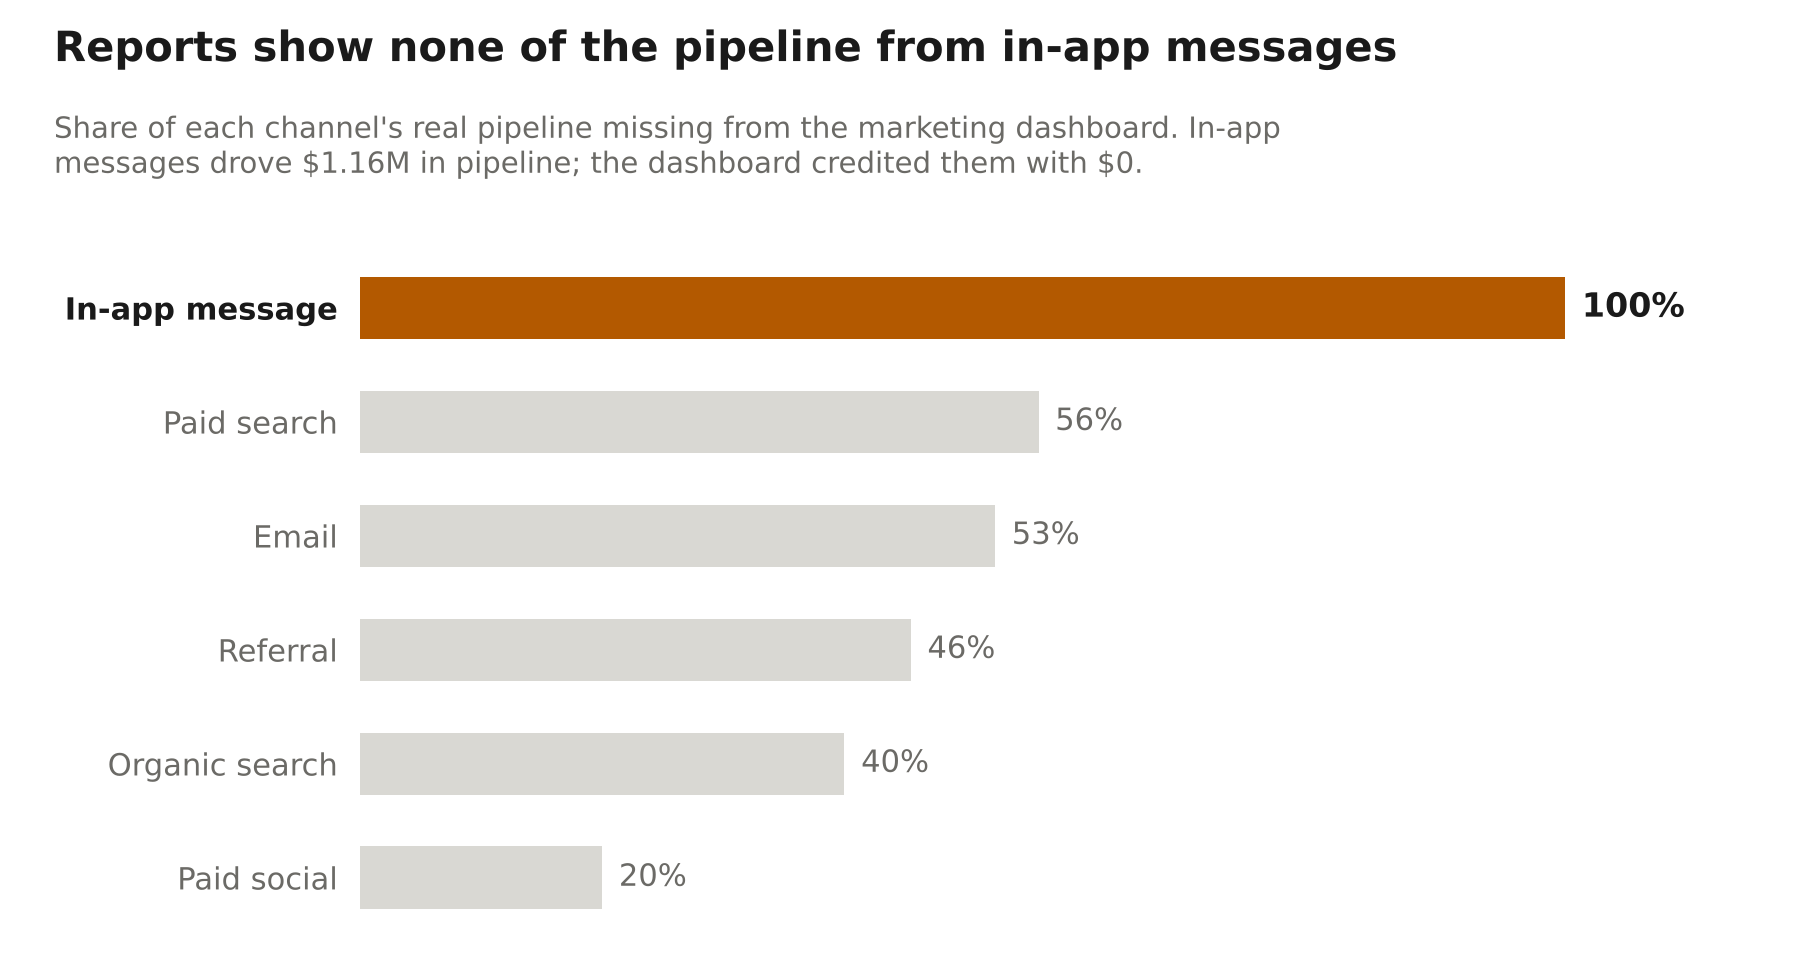
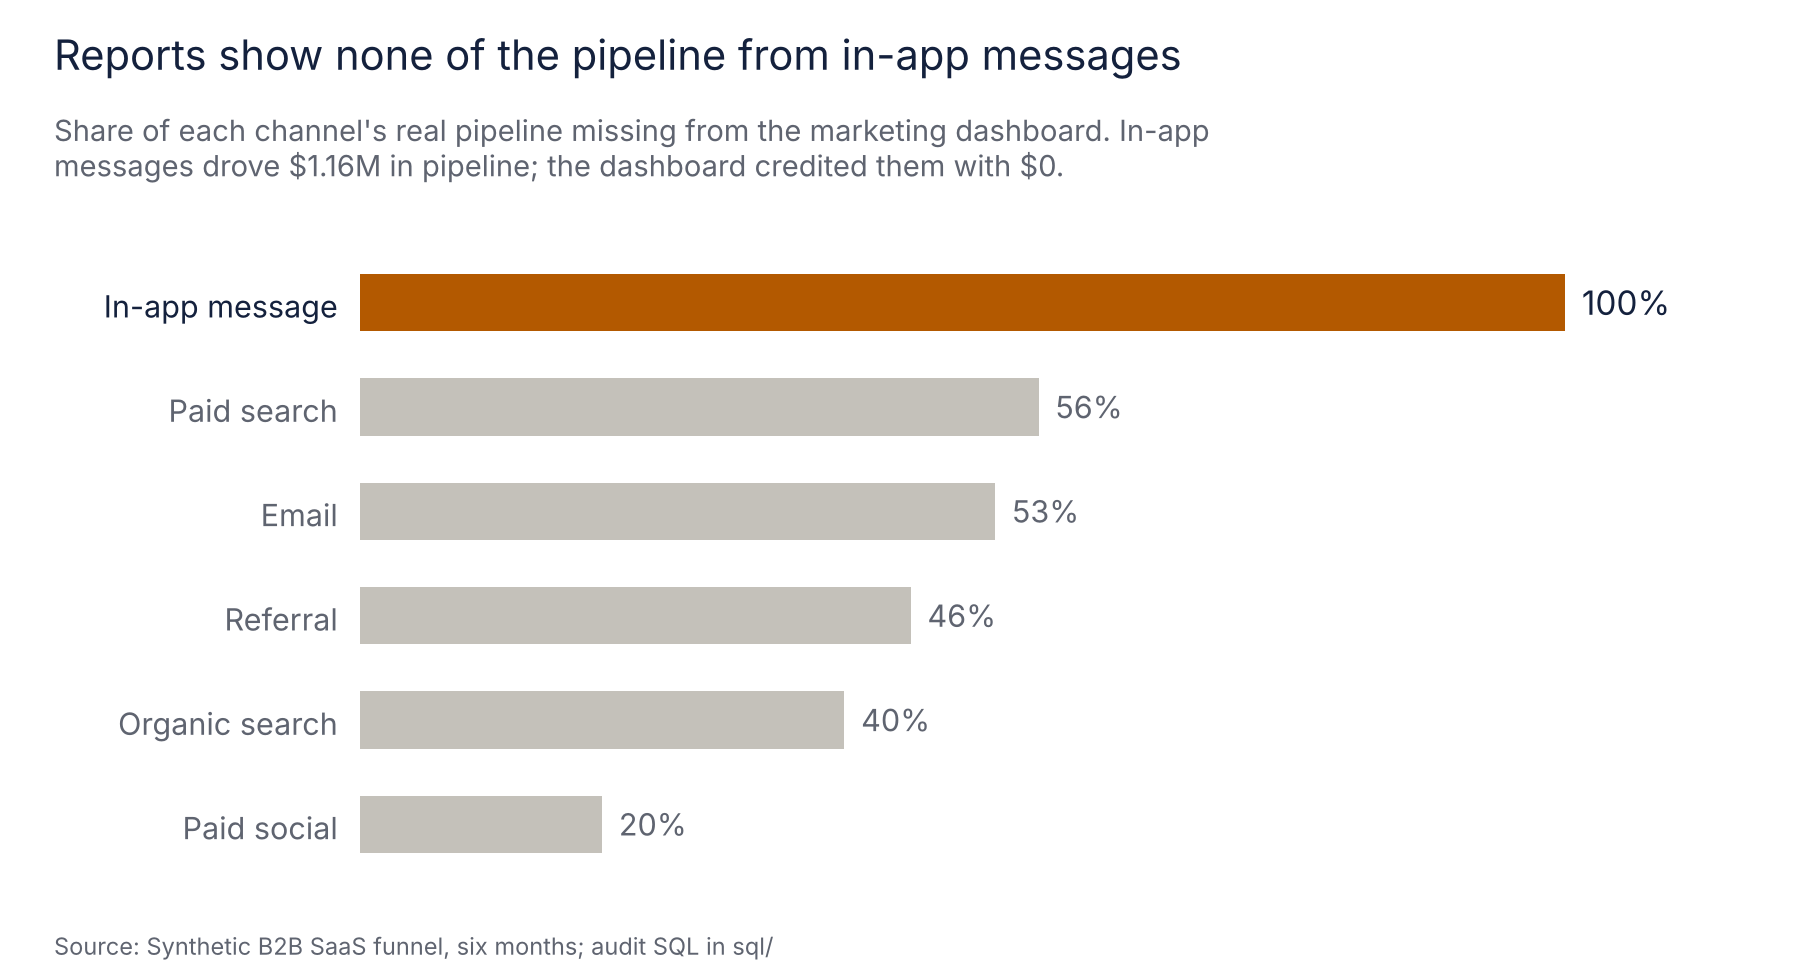
Add budget break-even view and value section; portfolio chart style

diff --git a/scripts/brand_style.py b/scripts/brand_style.py
@@ -1,0 +1,90 @@
+"""Shared chart style for Ekene Okafor's portfolio.
+
+One message per chart, stated in a sentence-case headline (regular weight, not bold or all caps),
+a short deck underneath, one highlight colour with grey for context, direct labels instead of legends,
+no gridlines, horizontal text only, bars from zero, and a source line.
+Colours are validated with the dataviz palette checks (lightness band, chroma, contrast, CVD).
+"""
+import matplotlib
+import matplotlib.pyplot as plt
+
+INK = "#14213d"        # navy: headlines, values, key labels
+MUTED = "#5f6470"      # deck, axis labels, source line (5.9:1 on white)
+CONTEXT = "#c4c1ba"    # grey for everything that is not the message (always direct-labelled)
+HAIRLINE = "#dedbd4"   # baselines and reference lines
+SURFACE = "#ffffff"
+BRAND_ACCENT = "#e0612e"  # signature orange
+
+# One highlight colour per project, so each repo is recognisable; never mixed in one chart
+PROJECT = {
+    "city-expansion-scorecard": "#2a78d6",
+    "campaign-uplift-targeting": "#e0612e",
+    "saas-cross-sell-playbook": "#14946a",
+    "business-review-agent": "#6250d6",
+    "marketplace-supply-simulation": "#2f8a2f",
+    "market-entry-investment-case": "#c94f86",
+    "funnel-attribution-audit": "#b35900",
+    "gtm-launch-playbook": "#d1495b",
+    "crm-data-hygiene-audit": "#00819e",
+}
+
+matplotlib.rcParams.update({
+    "font.family": "sans-serif",
+    "font.sans-serif": ["Inter", "Helvetica", "Arial", "DejaVu Sans"],
+    "axes.edgecolor": HAIRLINE,
+    "axes.labelcolor": MUTED,
+    "xtick.color": MUTED,
+    "ytick.color": MUTED,
+    "figure.facecolor": SURFACE,
+    "axes.facecolor": SURFACE,
+    "savefig.facecolor": SURFACE,
+})
+
+
+def figure(width=8.0, height=5.0):
+    """Default 8 x 5 (a 5:8 height to width ratio)."""
+    fig, ax = plt.subplots(figsize=(width, height), dpi=150)
+    return fig, ax
+
+
+def clean(ax, keep="x"):
+    """Remove chart junk. keep='x' keeps a bottom baseline (vertical bars, lines);
+    keep='y' keeps a left baseline (horizontal bars); keep=None removes both."""
+    for side in ["top", "right", "left", "bottom"]:
+        ax.spines[side].set_visible(False)
+    if keep == "x":
+        ax.spines["bottom"].set_visible(True)
+        ax.spines["bottom"].set_color(HAIRLINE)
+    if keep == "y":
+        ax.spines["left"].set_visible(True)
+        ax.spines["left"].set_color(HAIRLINE)
+    ax.grid(False)
+    ax.tick_params(length=0, labelsize=10.5, colors=MUTED)
+    return ax
+
+
+def headline(fig, title, deck=None):
+    """Takeaway headline in sentence case, regular weight, with an optional deck."""
+    fig.text(0.03, 0.965, title, fontsize=15, color=INK, ha="left", va="top")
+    if deck:
+        fig.text(0.03, 0.905, deck, fontsize=10.5, color=MUTED, ha="left", va="top")
+
+
+def source(fig, text):
+    fig.text(0.03, 0.02, f"Source: {text}", fontsize=8.5, color=MUTED, ha="left", va="bottom")
+
+
+def finish(fig, path, top=0.84, bottom=0.12, left=0.08, right=0.97):
+    fig.subplots_adjust(top=top, bottom=bottom, left=left, right=right)
+    fig.savefig(path, dpi=150, facecolor=SURFACE)
+    plt.close(fig)
+
+
+STREAMLIT_THEME = """[theme]
+base = "light"
+primaryColor = "{accent}"
+backgroundColor = "#ffffff"
+secondaryBackgroundColor = "#f7f6f2"
+textColor = "#14213d"
+font = "sans serif"
+"""

diff --git a/scripts/make_charts.py b/scripts/make_charts.py
@@ -4,29 +4,30 @@ import pandas as pd
 import matplotlib
 matplotlib.use("Agg")
 import matplotlib.pyplot as plt
+import sys as _sys
+_sys.path.insert(0, str(Path(__file__).parent))
+import brand_style as b
 
 ROOT = Path(__file__).resolve().parents[1]
 RES, OUT = ROOT / "results", ROOT / "charts"
 OUT.mkdir(exist_ok=True)
-SURFACE, INK, INK2 = "#ffffff", "#1a1a1a", "#6b6a66"
-HIGHLIGHT, CONTEXT = "#b35900", "#d9d8d3"
-plt.rcParams.update({"font.family": "DejaVu Sans", "font.size": 11, "text.color": INK,
+SURFACE, INK, INK2 = "#ffffff", b.INK, b.MUTED
+HIGHLIGHT, CONTEXT = b.PROJECT["funnel-attribution-audit"], b.CONTEXT
+plt.rcParams.update({"font.family": "sans-serif", "font.size": 11, "text.color": INK,
                      "figure.facecolor": SURFACE, "axes.facecolor": SURFACE})
 
 
 def titles(fig, title, subtitle):
-    fig.text(0.03, 0.97, title, fontsize=15, fontweight="bold", va="top")
+    fig.text(0.03, 0.97, title, fontsize=15, va="top")
     fig.text(0.03, 0.885, subtitle, fontsize=10.5, color=INK2, va="top")
 
 
 def hbars(ax, labels, vals, hi, fmt, xmax):
     ax.barh(labels, vals, height=0.55, color=[HIGHLIGHT if i == hi else CONTEXT for i in range(len(vals))])
     for y, v in enumerate(vals):
-        ax.text(v + xmax * 0.012, y, fmt(v), va="center", fontsize=12 if y == hi else 11,
-                fontweight="bold" if y == hi else "normal", color=INK if y == hi else INK2)
+        ax.text(v + xmax * 0.012, y, fmt(v), va="center", fontsize=12 if y == hi else 11, color=INK if y == hi else INK2)
     for i, lbl in enumerate(ax.get_yticklabels()):
         lbl.set_color(INK if i == hi else INK2)
-        lbl.set_fontweight("bold" if i == hi else "normal")
     for s in ax.spines.values():
         s.set_visible(False)
     ax.set_xticks([])
@@ -43,7 +44,8 @@ hbars(ax, r["channel"], r["share_of_pipeline_missing"] * 100, hi, lambda v: f"{v
 titles(fig, "Reports show none of the pipeline from in-app messages",
        "Share of each channel's real pipeline missing from the marketing dashboard. In-app\n"
        "messages drove \\$1.16M in pipeline; the dashboard credited them with \\$0.")
-fig.subplots_adjust(left=0.2, right=0.97, top=0.75, bottom=0.04)
+fig.subplots_adjust(left=0.2, right=0.97, top=0.75, bottom=0.1)
+b.source(fig, "Synthetic B2B SaaS funnel, six months; audit SQL in sql/")
 fig.savefig(OUT / "01_pipeline_missing_by_channel.png", dpi=200)
 plt.close(fig)
 
@@ -59,7 +61,8 @@ fig, ax = plt.subplots(figsize=(9, 4.9))
 hbars(ax, [labels[o] for o in order], vals, 3, lambda v: f"{v:.0f}%", 48)
 titles(fig, "Only 38% of pipeline is credited to the right channel",
        "Share of all pipeline by attribution status. The chat widget is the biggest single leak.")
-fig.subplots_adjust(left=0.29, right=0.97, top=0.79, bottom=0.04)
+fig.subplots_adjust(left=0.29, right=0.97, top=0.79, bottom=0.1)
+b.source(fig, "Synthetic B2B SaaS funnel, six months; audit SQL in sql/")
 fig.savefig(OUT / "02_root_causes.png", dpi=200)
 plt.close(fig)
 print("Charts saved to charts/")

diff --git a/scripts/run_audit.py b/scripts/run_audit.py
@@ -11,7 +11,7 @@ con.execute(f"SET file_search_path = '{ROOT}'")
 for f in sorted((ROOT / "sql").glob("*.sql")):
     con.execute(f.read_text())
 VIEWS = ["reported_by_source", "dq_suspicious_sources", "dq_duplicates", "dq_bots_by_channel", "dq_linkage",
-         "reconciliation_by_channel", "misattribution_root_causes", "corrected_funnel"]
+         "reconciliation_by_channel", "misattribution_root_causes", "corrected_funnel", "budget_breakeven"]
 for v in VIEWS:
     con.sql(f"SELECT * FROM {v}").write_csv(str(OUT / f"{v}.csv"))
 

diff --git a/README.md b/README.md
@@ -55,6 +55,24 @@ Pipeline per 1,000 real (non-bot) sessions, after reattribution and deduplicatio
 
 Using the dashboard as it stands, a team would likely cut in-app messaging (apparently $0 pipeline) and credit "Direct" for results it did not drive. The corrected view says the opposite: in-app messaging is one of the two most productive channels per session.
 
+### What the audit is worth
+
+- **A bad decision avoided.** On the dashboard, in-app messaging shows $0 pipeline and is the obvious channel to cut. It actually drove **$1.16M, 18% of all pipeline**, at the second-highest value per session
+- **A clear first move for budget.** There is no spend data, so the audit asks how much more each channel could cost per session and still beat paid social on pipeline per dollar. Paid search can cost up to **12 times** as much per session, email 14 times, and referral 28 times. Paid social is the budget to move first; confirm with real costs per session before moving it
+- **One fix restores a quarter of the pipeline.** Passing campaign tags through the chat widget would correctly credit $1.70M (27% of pipeline)
+
+| Channel | Pipeline per 1,000 real sessions | Could cost this many times more per session than paid social and still win |
+|---|---|---|
+| Referral | $66,016 | 28.2x |
+| In-app message | $64,788 | 27.7x |
+| Email | $33,721 | 14.4x |
+| Paid search | $28,026 | 12.0x |
+| Direct | $13,406 | 5.7x |
+| Organic search | $11,112 | 4.8x |
+| Paid social | $2,337 | 1.0x |
+
+Source: [`sql/07_budget_breakeven.sql`](sql/07_budget_breakeven.sql)
+
 ## How the audit works
 
 All logic is SQL in [`sql/`](sql), run in order:
@@ -65,6 +83,7 @@ All logic is SQL in [`sql/`](sql), run in order:
 4. [`04_reconstruct.sql`](sql/04_reconstruct.sql): rebuild each lead's real channel from its first web session (`QUALIFY ROW_NUMBER() OVER (PARTITION BY visitor_id ...)`), drop duplicates, and label each lead's attribution status. Leads that cannot be linked are marked "Unresolved" rather than guessed
 5. [`05_reconciliation.sql`](sql/05_reconciliation.sql): reported vs real MQLs and pipeline by channel, and pipeline by root cause
 6. [`06_corrected_funnel.sql`](sql/06_corrected_funnel.sql): the funnel by channel with bots removed and real channels applied
+7. [`07_budget_breakeven.sql`](sql/07_budget_breakeven.sql): how much more each channel could cost per session and still beat paid social
 
 **Validation against ground truth** ([`results/validation.csv`](results/validation.csv)):
 
